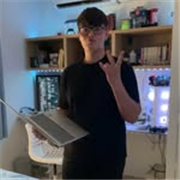
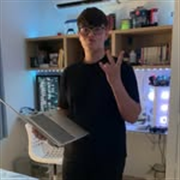
perf: reveal bidireccional, imagen electricista 13MB->186KB con srcset, canvas optimizado, fixes móvil
- Scroll reveal ahora rejuega al subir y bajar (doble observer con histéresis anti-parpadeo)
- Hero también reanima al volver arriba; counters solo cuentan una vez
- electricista.png (13MB) -> electricista.jpg 900w (186KB) + 480w (59KB) con srcset/sizes
- Sección origen: CSS propio con breakpoint móvil (antes 2 columnas apretadas), vars corregidas
- Canvas: resize con debounce (ignora barra URL móvil), distancia al cuadrado sin sqrt
- overflow-x clip en html (fix iOS), progress bar recalcula altura en load
- apple-touch-icon 84KB -> 45KB

Changed region(s): [[0.2222, 0.3889, 1.0, 1.0]]

diff --git a/index.html b/index.html
@@ -138,7 +138,7 @@
       --accent: #4338ca;
     }
 
-    html { scroll-behavior: smooth; }
+    html { scroll-behavior: smooth; overflow-x: clip; }
 
     body {
       font-family: 'Inter', system-ui, sans-serif;
@@ -530,6 +530,28 @@
     [data-delay="4"] { transition-delay: 0.4s; }
     [data-delay="5"] { transition-delay: 0.5s; }
     [data-delay="6"] { transition-delay: 0.6s; }
+
+    /* ── ORIGEN (ELECTRICISTA) ── */
+    #origen { padding: 100px 20px; background: var(--bg2); }
+    .origen-inner {
+      max-width: 1000px; margin: 0 auto;
+      display: grid; grid-template-columns: 440px 1fr;
+      gap: 60px; align-items: center;
+    }
+    .origen-img {
+      display: block; width: 100%; height: auto;
+      border-radius: 12px;
+      box-shadow: 0 10px 40px rgba(23,29,51,0.10);
+    }
+    .origen-text h2 { font-size: 32px; line-height: 1.3; color: var(--text); margin-bottom: 24px; }
+    .origen-text p  { font-size: 16px; line-height: 1.7; color: var(--muted); margin-bottom: 16px; }
+    .origen-text .origen-punch { color: var(--text); font-weight: 500; margin-bottom: 0; }
+    @media (max-width: 860px) {
+      #origen { padding: 64px 20px; }
+      .origen-inner { grid-template-columns: 1fr; gap: 32px; }
+      .origen-img-wrap { max-width: 420px; margin: 0 auto; width: 100%; }
+      .origen-text h2 { font-size: 26px; }
+    }
 
     /* ── GRADIENT LINES ── */
     .gradient-line {
@@ -1297,24 +1319,20 @@
 </section>
 
 <!-- ORIGIN STORY: ELECTRICISTA -->
-<section id="origen" style="padding:100px 20px;background:var(--bg2);">
-  <div class="section-inner" style="max-width:1000px;margin:0 auto;display:grid;grid-template-columns:1fr 1fr;gap:60px;align-items:center;">
-    <div>
-      <img src="assets/electricista.png" alt="Ángel en la obra con camiseta gris" style="border-radius:12px;width:100%;box-shadow:0 10px 40px rgba(0,0,0,0.08);" width="500" height="889" loading="lazy" decoding="async" />
+<section id="origen">
+  <div class="origen-inner">
+    <div class="origen-img-wrap" data-reveal="left">
+      <img src="assets/electricista.jpg"
+           srcset="assets/electricista-480.jpg 480w, assets/electricista.jpg 900w"
+           sizes="(max-width: 860px) 88vw, 440px"
+           alt="Ángel trabajando de electricista en la obra"
+           class="origen-img" width="900" height="1601" loading="lazy" decoding="async" />
     </div>
-    <div style="padding:20px;">
-      <h2 style="font-size:32px;line-height:1.3;color:var(--navy);margin-bottom:24px;">
-        Desde los 12 años, electricista.
-      </h2>
-      <p style="font-size:16px;line-height:1.7;color:var(--slate);margin-bottom:16px;">
-        Cada verano, jornada de 6 AM a 3 PM. Lunes a viernes. He sudado dinero de verdad.
-      </p>
-      <p style="font-size:16px;line-height:1.7;color:var(--slate);margin-bottom:24px;">
-        <strong>Sé qué vale ganar un euro.</strong> Sé qué cuesta el tiempo. Sé qué significa elegir entre dinero y futuro.
-      </p>
-      <p style="font-size:16px;line-height:1.7;color:var(--navy);font-weight:500;">
-        Por eso construyo automatización: para que otros no tengan que hacer esa elección.
-      </p>
+    <div class="origen-text" data-reveal="right">
+      <h2>Desde los 12 años, electricista.</h2>
+      <p>Cada verano, jornada de 6 AM a 3 PM. Lunes a viernes. He sudado dinero de verdad.</p>
+      <p><strong>Sé qué vale ganar un euro.</strong> Sé qué cuesta el tiempo. Sé qué significa elegir entre dinero y futuro.</p>
+      <p class="origen-punch">Por eso construyo automatización: para que otros no tengan que hacer esa elección.</p>
     </div>
   </div>
 </section>
@@ -1798,6 +1816,7 @@
     let W, H, nodes = [];
     const isMobile = window.innerWidth < 768;
     const COUNT = isMobile ? 28 : 55, MAX_DIST = isMobile ? 120 : 160;
+    const MAX_DIST2 = MAX_DIST * MAX_DIST;
     const COLORS = ['rgba(37,99,235,NODE)', 'rgba(99,102,241,NODE)', 'rgba(29,78,216,NODE)'];
 
     function resize() {
@@ -1824,9 +1843,9 @@
       for (let i = 0; i < nodes.length; i++) {
         for (let j = i + 1; j < nodes.length; j++) {
           const dx = nodes[i].x - nodes[j].x, dy = nodes[i].y - nodes[j].y;
-          const dist = Math.sqrt(dx*dx + dy*dy);
-          if (dist < MAX_DIST) {
-            const alpha = (1 - dist / MAX_DIST) * 0.22;
+          const dist2 = dx*dx + dy*dy;
+          if (dist2 < MAX_DIST2) {
+            const alpha = (1 - Math.sqrt(dist2) / MAX_DIST) * 0.22;
             ctx.beginPath();
             ctx.strokeStyle = `rgba(37,99,235,${alpha})`;
             ctx.lineWidth = 0.8;
@@ -1873,7 +1892,19 @@
     function play() { if (!rafId) rafId = requestAnimationFrame(loop); }
     function stop() { if (rafId) { cancelAnimationFrame(rafId); rafId = null; } }
 
-    window.addEventListener('resize', () => { resize(); });
+    // Debounce + ignora cambios solo de alto <120px (barra de URL móvil):
+    // evita limpiar y redimensionar el canvas en cada píxel de scroll
+    let resizeTO = null;
+    window.addEventListener('resize', () => {
+      clearTimeout(resizeTO);
+      resizeTO = setTimeout(() => {
+        const hero = document.getElementById('hero');
+        if (canvas.width !== hero.offsetWidth || Math.abs(canvas.height - hero.offsetHeight) > 120) {
+          resize();
+          if (REDUCE_MOTION) draw(); // el frame estático se pierde al redimensionar
+        }
+      }, 150);
+    }, { passive: true });
     init();
     if (REDUCE_MOTION) {
       draw(); // un solo frame estático
@@ -1894,29 +1925,56 @@
   window.addEventListener('resize', () => {
     docHeight = document.documentElement.scrollHeight - window.innerHeight;
   }, { passive: true });
+  window.addEventListener('load', () => {
+    docHeight = document.documentElement.scrollHeight - window.innerHeight;
+  }, { once: true });
   window.addEventListener('scroll', () => {
-    progressBar.style.transform = 'scaleX(' + Math.min(window.scrollY / docHeight, 1) + ')';
+    progressBar.style.transform = 'scaleX(' + Math.min(window.scrollY / Math.max(docHeight, 1), 1) + ')';
   }, { passive: true });
 
-  // ── SCROLL REVEAL ──
+  // ── SCROLL REVEAL (bidireccional: los elementos reaparecen al bajar Y al subir) ──
   const revealObserver = new IntersectionObserver((entries) => {
     entries.forEach(entry => {
       if (entry.isIntersecting) {
         entry.target.classList.add('revealed');
         entry.target.querySelectorAll('[data-count]').forEach(el => animateCounter(el));
-        revealObserver.unobserve(entry.target);
       }
     });
   }, { threshold: 0.12, rootMargin: '0px 0px -50px 0px' });
 
+  // Histéresis anti-parpadeo: la clase solo se quita cuando el elemento está
+  // totalmente fuera del viewport (+80px), nunca mientras es visible
+  const unrevealObserver = new IntersectionObserver((entries) => {
+    entries.forEach(entry => {
+      if (!entry.isIntersecting) entry.target.classList.remove('revealed');
+    });
+  }, { threshold: 0, rootMargin: '80px 0px 80px 0px' });
+
   document.querySelectorAll('[data-reveal]').forEach(el => {
-    if (!el.closest('#hero')) revealObserver.observe(el);
+    if (el.closest('#hero')) return;
+    revealObserver.observe(el);
+    if (!REDUCE_MOTION) unrevealObserver.observe(el);
   });
 
-  // ── COUNTER ANIMATION ──
+  // El hero también rejuega al volver arriba — se registra cuando la intro
+  // ya terminó de revelarlo, y se retira el transition:none de visitas repetidas
+  if (!REDUCE_MOTION) {
+    setTimeout(() => {
+      document.documentElement.classList.remove('skip-intro');
+      document.querySelectorAll('#hero [data-reveal]').forEach(el => {
+        revealObserver.observe(el);
+        unrevealObserver.observe(el);
+      });
+    }, 4700);
+  }
+
+  // ── COUNTER ANIMATION (una sola vez por elemento) ──
   function animateCounter(el) {
+    if (el.dataset.counted) return;
+    el.dataset.counted = '1';
     const target = parseInt(el.dataset.count);
     const suffix = el.dataset.suffix || '';
+    if (REDUCE_MOTION) { el.textContent = target + suffix; return; }
     const start  = performance.now();
     const dur    = 1400;
     (function update(now) {
